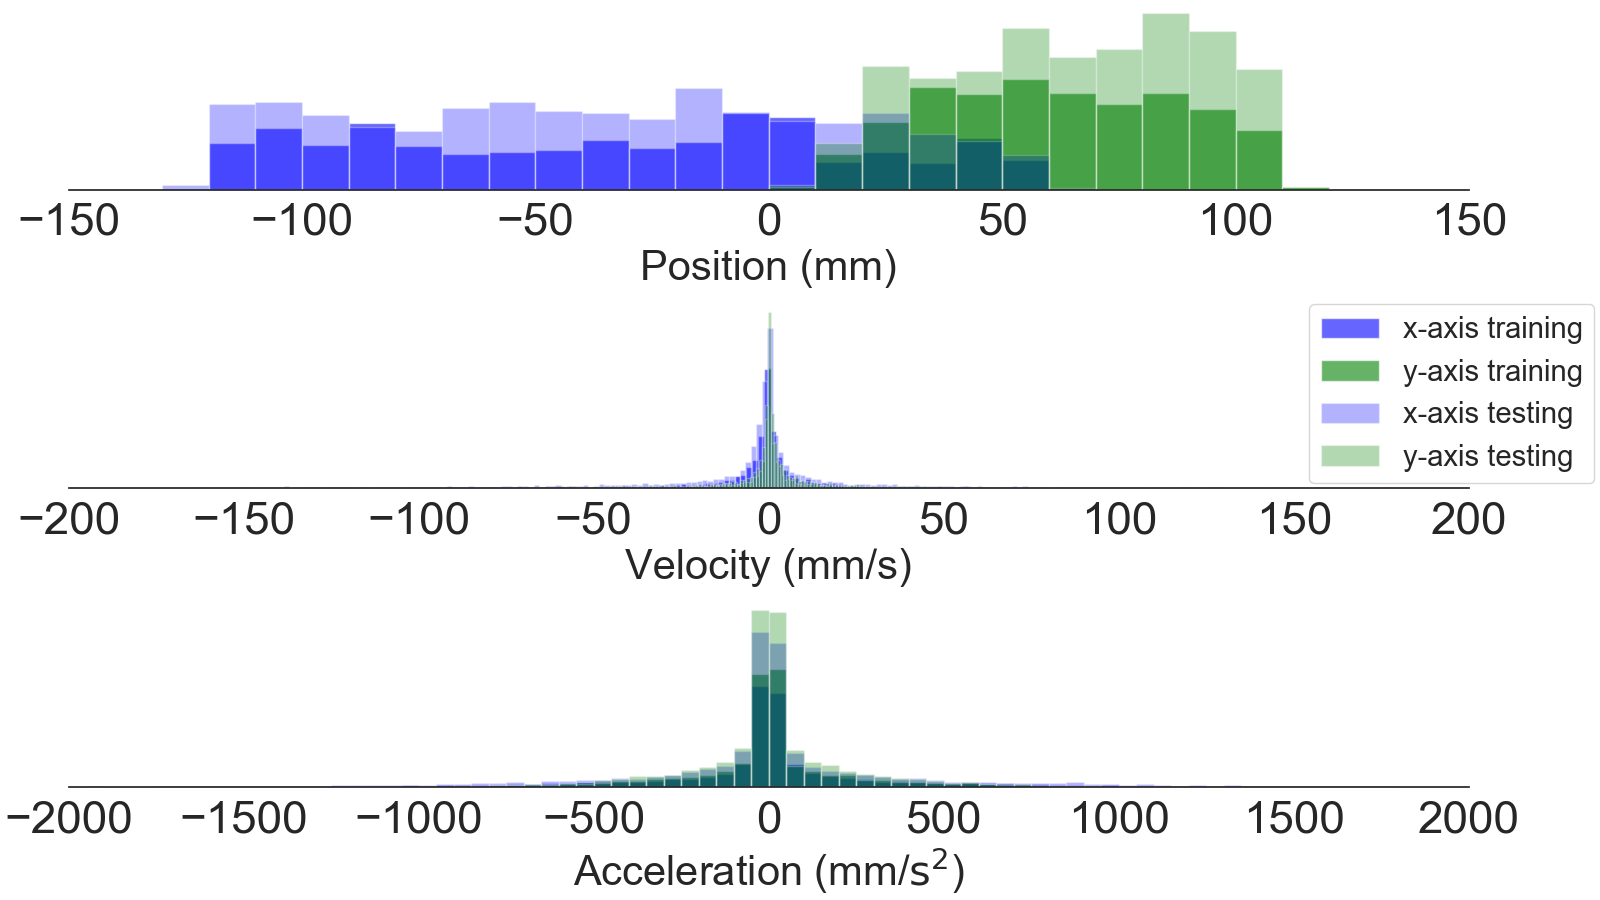
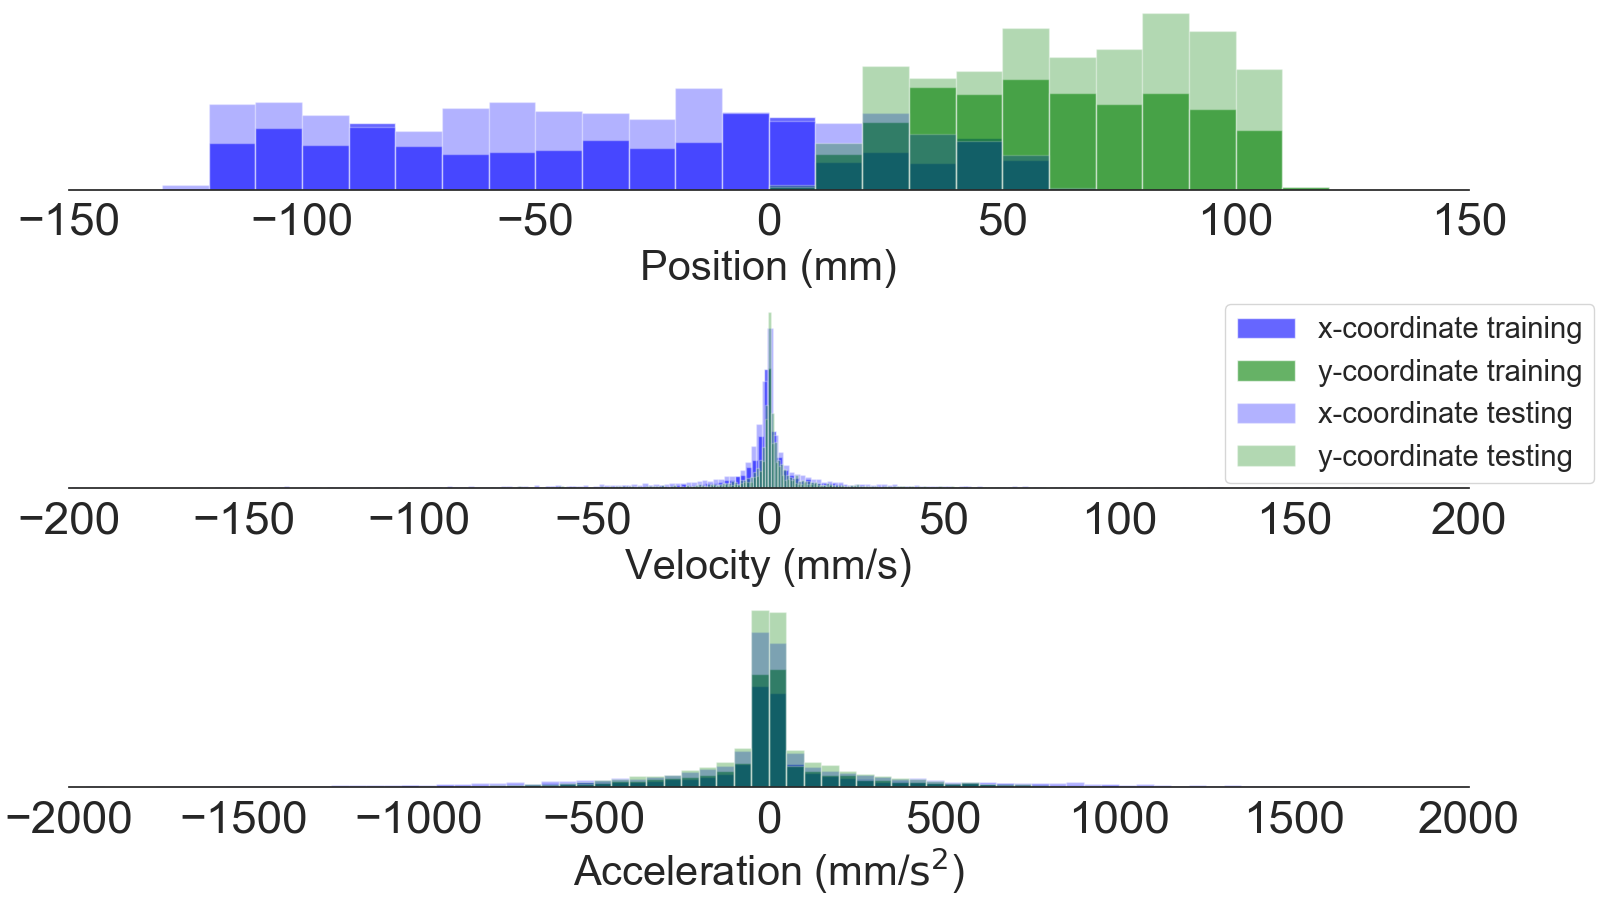
new

Changed region(s): [[0.75, 0.3422, 1.0, 0.5289]]

diff --git a/Python_code/Read_mat_file_and_Plot/label_distribution/label_distributions.py b/Python_code/Read_mat_file_and_Plot/label_distribution/label_distributions.py
@@ -61,11 +61,11 @@ fig, axes = plt.subplots( 3 ,gridspec_kw={'height_ratios': [1,1,1],  "hspace":0.
 
 bins = [i for i in np.arange( -200, 200,  10)]
 
-axes[0].hist(x_position_label_training[:,0], bins=bins, color='blue', alpha=0.6, label='x-axis training')
-axes[0].hist(y_position_label_training[:,0], bins=bins, color='green', alpha=0.6,label='y-axis training')
+axes[0].hist(x_position_label_training[:,0], bins=bins, color='blue', alpha=0.6, label='x-coordinate training')
+axes[0].hist(y_position_label_training[:,0], bins=bins, color='green', alpha=0.6,label='y-coordinate training')
 
-axes[0].hist(x_position_label_testing[:,0], bins=bins, color='blue', alpha=0.3, label='x-axis testing')
-axes[0].hist(y_position_label_testing[:,0], bins=bins, color='green', alpha=0.3, label='y-axis testing')
+axes[0].hist(x_position_label_testing[:,0], bins=bins, color='blue', alpha=0.3, label='x-coordinate testing')
+axes[0].hist(y_position_label_testing[:,0], bins=bins, color='green', alpha=0.3, label='y-coordinate testing')
 
 axes[0].set_xlabel('Position (mm)', fontsize=my_fontsize)
 axes[0].set_yticks([])
@@ -78,12 +78,12 @@ axes[0].spines['bottom'].set_visible(True)
 axes[0].spines['left'].set_visible(False)
 
 
-axes[1].hist(x_velocity_label_training[:,0], bins='auto', color='blue', alpha=0.6, label='x-axis training')
-axes[1].hist(y_velocity_label_training[:,0], bins='auto', color='green', alpha=0.6,label='y-axis training')
+axes[1].hist(x_velocity_label_training[:,0], bins='auto', color='blue', alpha=0.6, label='x-coordinate training')
+axes[1].hist(y_velocity_label_training[:,0], bins='auto', color='green', alpha=0.6,label='y-coordinate training')
 
 
-axes[1].hist(x_velocity_label_testing[:,0], bins='auto', color='blue', alpha=0.3, label='x-axis testing')
-axes[1].hist(y_velocity_label_testing[:,0], bins='auto', color='green', alpha=0.3, label='y-axis testing')
+axes[1].hist(x_velocity_label_testing[:,0], bins='auto', color='blue', alpha=0.3, label='x-coordinate testing')
+axes[1].hist(y_velocity_label_testing[:,0], bins='auto', color='green', alpha=0.3, label='y-coordinate testing')
 
 axes[1].set_xlabel('Velocity (mm/s)', fontsize=my_fontsize)
 axes[1].set_yticks([])
@@ -99,11 +99,11 @@ axes[1].spines['left'].set_visible(False)
 bins = [i for i in np.arange( -2000, 2000,  50)]
 
 
-axes[2].hist(x_acceleration_label_training[:,0], bins=bins, color='blue', alpha=0.6, label='x-axis training')
-axes[2].hist(y_acceleration_label_training[:,0], bins=bins, color='green', alpha=0.6, label='y-axis training')
+axes[2].hist(x_acceleration_label_training[:,0], bins=bins, color='blue', alpha=0.6, label='x-coordinate training')
+axes[2].hist(y_acceleration_label_training[:,0], bins=bins, color='green', alpha=0.6, label='y-coordinate training')
 
-axes[2].hist(x_acceleration_label_testing[:,0], bins=bins, color='blue', alpha=0.3, label='x-axis testing')
-axes[2].hist(y_acceleration_label_testing[:,0], bins=bins, color='green', alpha=0.3, label='y-axis testing')
+axes[2].hist(x_acceleration_label_testing[:,0], bins=bins, color='blue', alpha=0.3, label='x-coordinate testing')
+axes[2].hist(y_acceleration_label_testing[:,0], bins=bins, color='green', alpha=0.3, label='y-coordinate testing')
 
 axes[2].set_xlabel('Acceleration (mm/$\mathrm{s}^{\mathrm{2}}$)', fontsize=my_fontsize)
 axes[2].set_yticks([])

diff --git a/Thesis_Wu/Neural_decoder_design.tex b/Thesis_Wu/Neural_decoder_design.tex
@@ -116,13 +116,13 @@ Figure \ref{fig:indy_20160407_02_S1_ch_60} showed the spike train from S1 electr
         \begin{minipage}[t]{0.49\textwidth}
             \centering
             \includegraphics[width=1\textwidth]{M1_Spike_Train_Channel_060.png}
-            \caption{M1 Spike Train}
+            \caption{M1 spike train}
             \label{fig:indy_20160407_02_M1_ch_60}
         \end{minipage}
         \begin{minipage}[t]{0.49\textwidth}
             \centering
             \includegraphics[width=1\textwidth]{S1_Spike_Train_Channel_060.png}
-            \caption{S1 Spike Train}
+            \caption{S1 spike train}
             \label{fig:indy_20160407_02_S1_ch_60}
         \end{minipage}
 \end{figure}
@@ -402,7 +402,7 @@ The structure of a GRU cell is shown in Figure \ref{fig:GRU_cell}.
     % \begin{split}
         \br_{t'} &=  \mathcal{S} ( \bW_r \bh_{t'-1} + \bU_r \bx_{t'} + \bb_r) \label{eq:reset_gate} \\
         \bz_{t'} &= \mathcal{S} ( \bW_z \bh_{t'-1} + \bU_z \bx_{t'} + \bb_z) \label{eq:update_gate} \\
-        \tilde{\bh}_t &=  \text{tanh}( \bW ( \br_{t'} \odot \bh_{t'-1}) + \bU \bx_{t'} + \bb) \label{eq:h_hat} \\
+        \tilde{\bh}_{t'} &=  \text{tanh}( \bW ( \br_{t'} \odot \bh_{t'-1}) + \bU \bx_{t'} + \bb) \label{eq:h_hat} \\
         \bh_{t'} &= \bz_{t'} \odot \bh_{t'-1} + ( 1 - \bz_{t'}) \odot \tilde{\bh}_{t'} \label{eq:h_out}
     % \end{split}
 \end{align}

diff --git a/Thesis_Wu/Discussion.tex b/Thesis_Wu/Discussion.tex
@@ -31,7 +31,7 @@ the loss dropped drastically with the aid of layer normalization when compared w
             \caption{Acceleration}
         \end{subfigure}
         \captionsetup{width=1\textwidth}
-        \caption[Epoch versus loss graphs from 3 different kinematic decoders]{Epoch versus loss graphs from 3 different kinematic decoders. Each curve represented the loss value with respect to epoch from a session.}
+        \caption[Epoch versus loss graphes from 3 different kinematic decoders]{Epoch versus loss graphes from 3 different kinematic decoders. Each curve represented the loss value with respect to epoch from a session.}
         \label{fig:loss_vs_epoch}
     \end{center}
 \end{figure}

diff --git a/Thesis_Wu/Experimental_results.tex b/Thesis_Wu/Experimental_results.tex
@@ -32,7 +32,7 @@ As marked in Figure \ref{fig:trimmed_testing_data}, shaded red parts indicated t
             \end{subfigure}
         }
         \captionsetup{width=0.5\textwidth}
-        \caption{Trimmed Testing Data}
+        \caption{Trimmed testing data}
         \label{fig:trimmed_testing_data}
 \end{figure}
 

diff --git a/Python_code/Read_mat_file_and_Plot/observe_and_predict_plot_attention_position/Readme.md b/Python_code/Read_mat_file_and_Plot/observe_and_predict_plot_attention_position/Readme.md
@@ -1,3 +1,3 @@
-Ground_Truth_x_pos.csv  
-Ground_Truth_y_pos.csv  
-plotting_time_elapsed.csv  
+* Ground_Truth_x_pos.csv  
+* Ground_Truth_y_pos.csv  
+* plotting_time_elapsed.csv  
